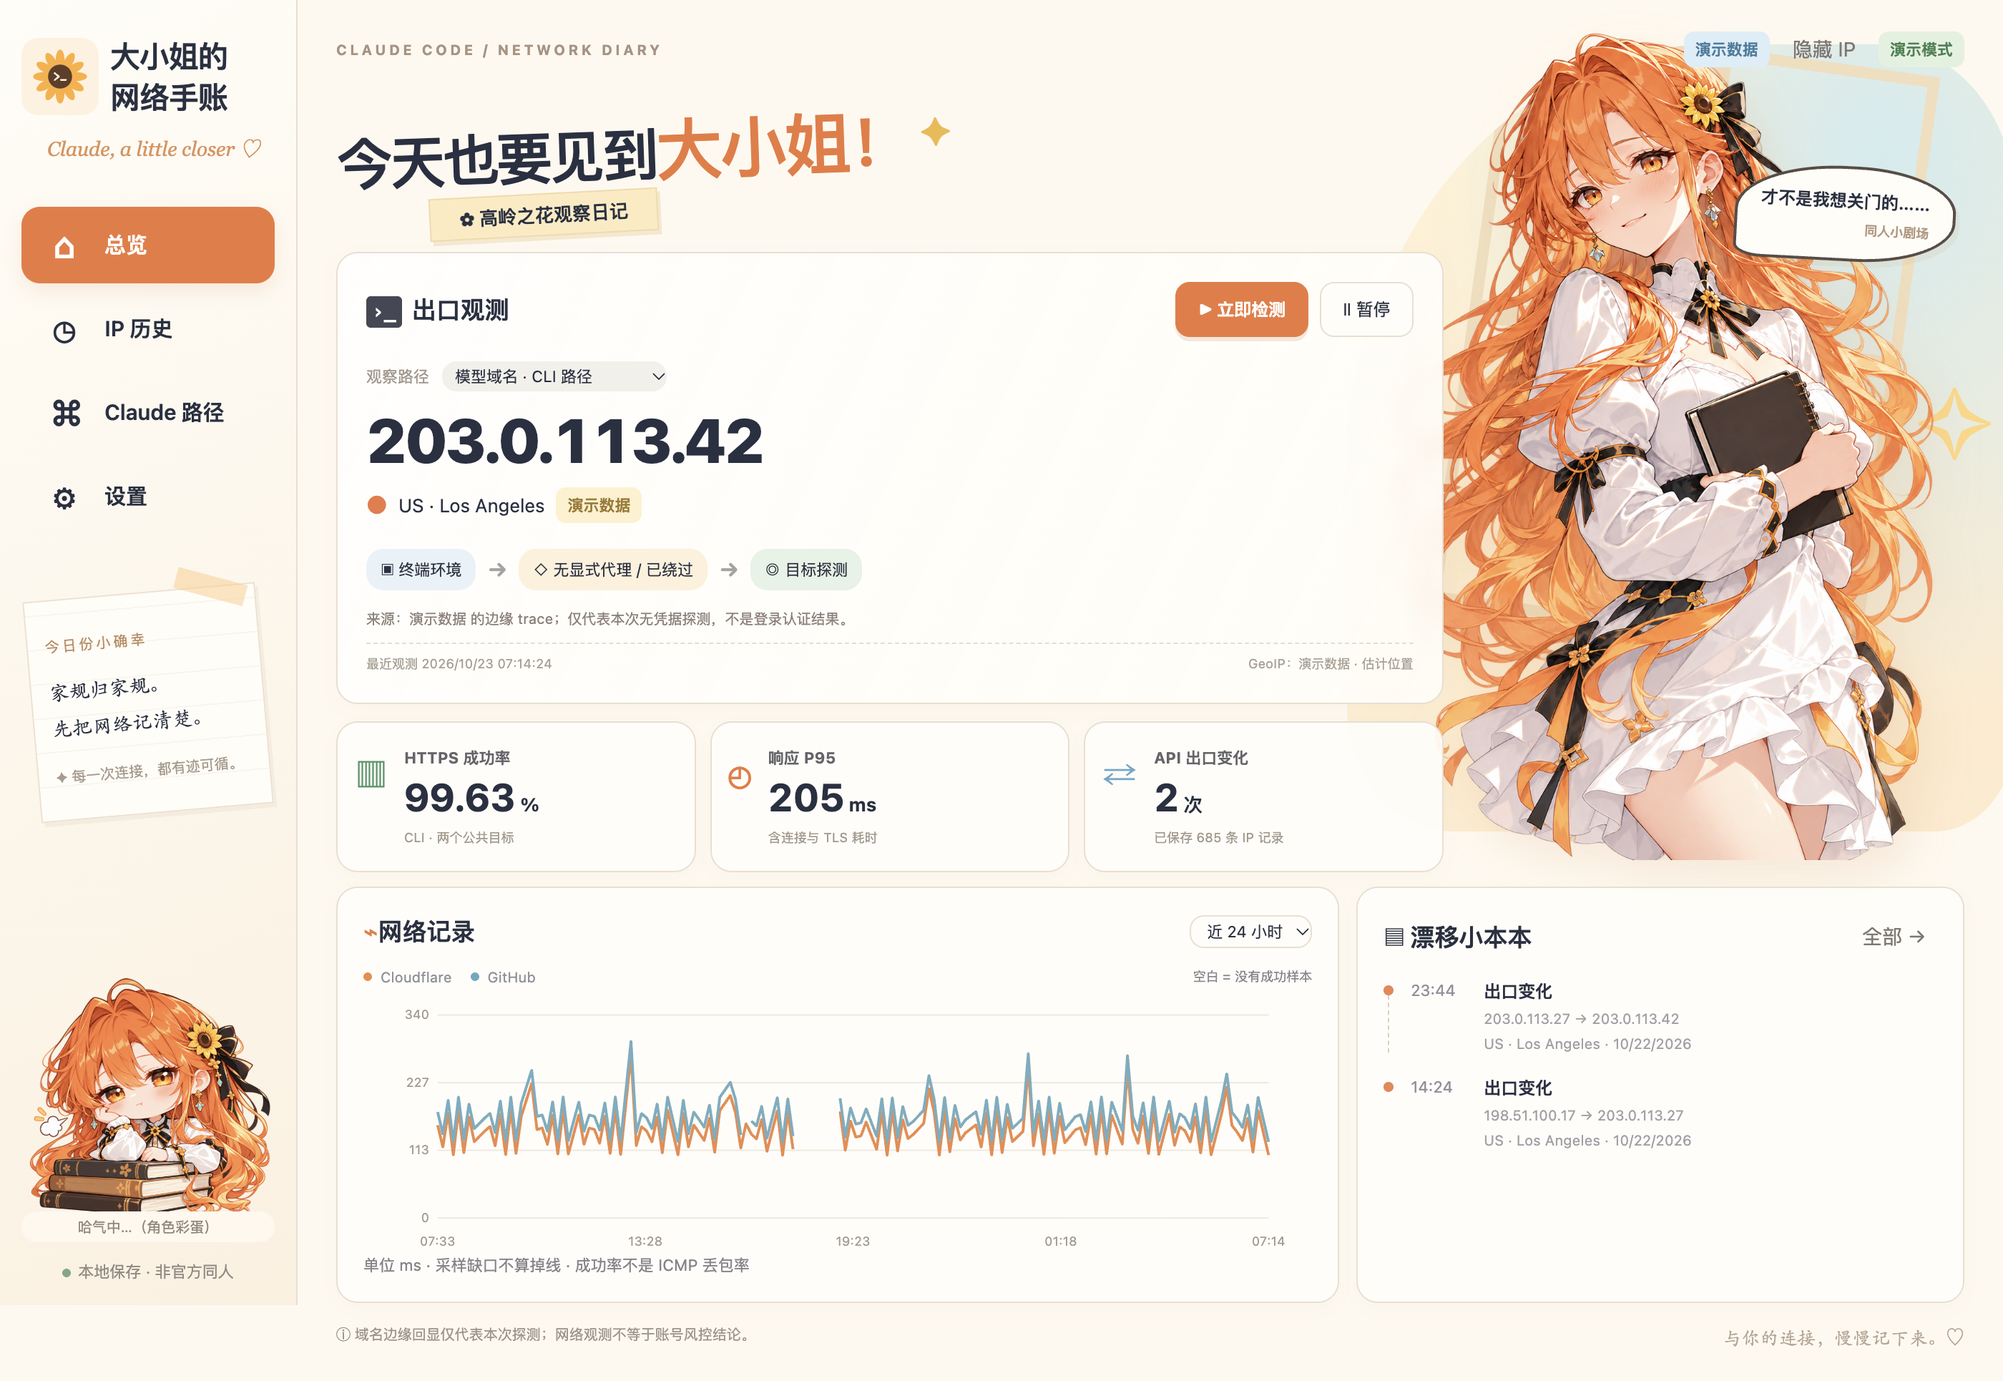
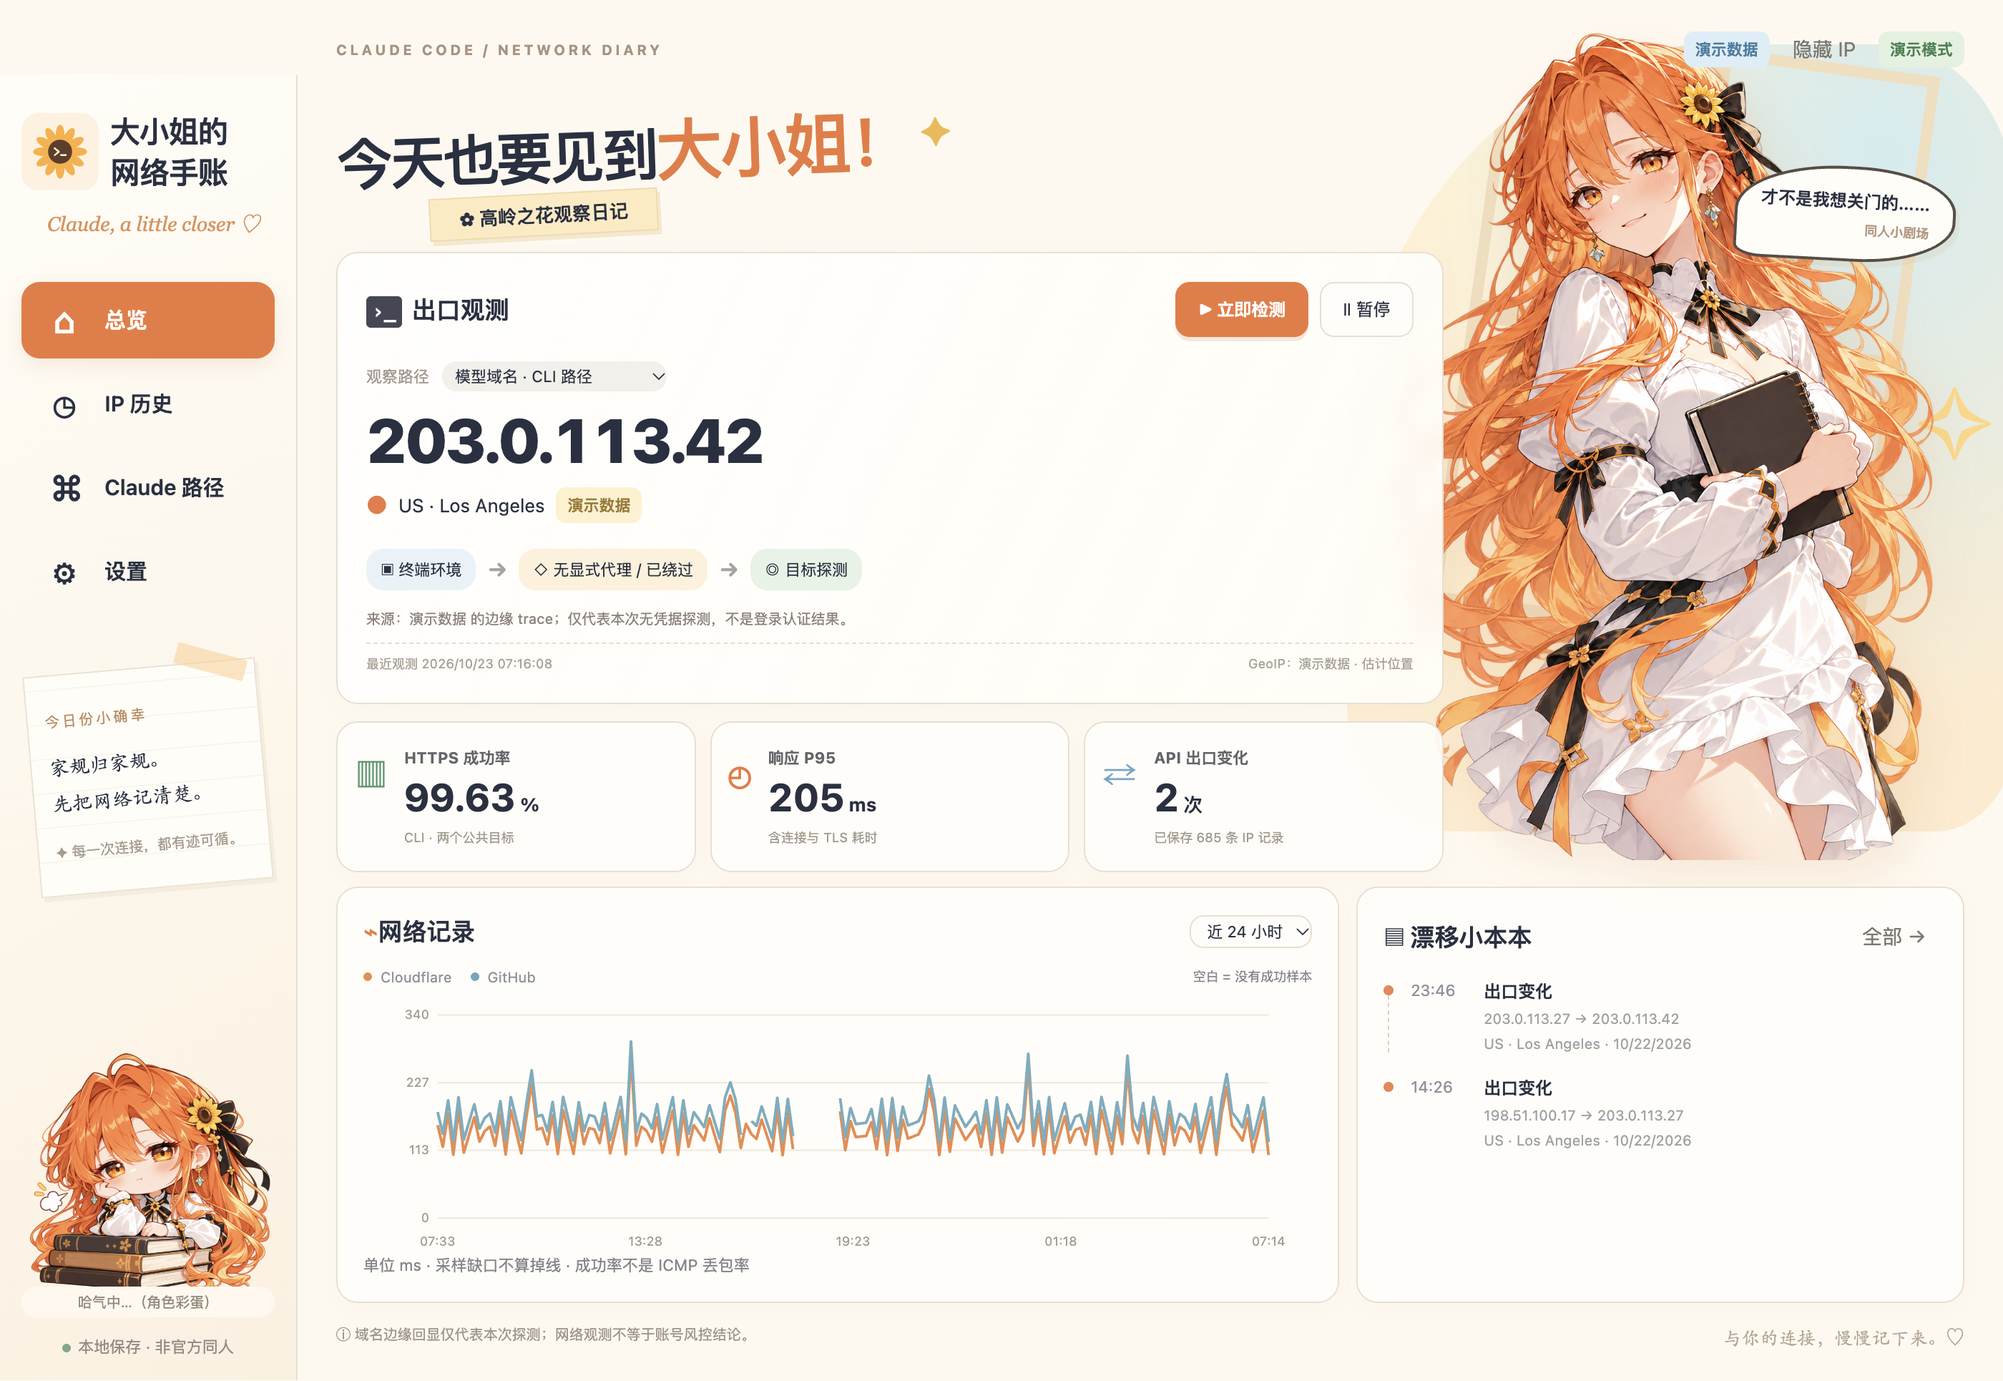
Prevent overlapping observer launches during startup recovery

diff --git a/docs/设计与验证.html b/docs/设计与验证.html
@@ -1,1 +1,1 @@
-<!doctype html><html lang="zh-CN"><meta charset="utf-8"><title>大小姐的网络手账 · 设计与验证</title><style>body{max-width:1000px;margin:60px auto;background:#f7f3ec;color:#332b26;font:16px/1.8 system-ui}article{background:#fffaf3;padding:28px;border:1px solid #dfd6ca;border-radius:18px;margin:24px 0}img{width:100%}code{background:#efe6db;padding:3px 6px}a{color:#a3523a}</style><h1>大小姐的网络手账</h1><p>原创二次元大小姐主题 · Claude Code 网络路径观察 · 独立非官方应用</p><article id="design"><h2>设计基线</h2><p>左侧导航与托盘常驻；主区域展示当前出口、稳定性、IP 漂移时间线；右侧原创成年大小姐插画。奶油纸色、陶土橘、深咖文字和低饱和青绿状态色。图表与数据有独立语义和可访问标签。</p><p>CLI 网络环境与系统/浏览器路径分开展示。第三方回显仅说明该探测请求出口；真实认证/模型服务可能按域名走另一线路。401/403 是 HTTP 响应，不等于登录成功或账户可用。</p></article><article id="execution-ledger"><h2>执行台账</h2><p>NW-02 · 负责人：主代理 · 进行中 · 先产出效果图，再跨平台实现、测试与公开发布。旧数据保留。截图、构建与验证在完成时追加。</p></article><article><h2>视觉方案修订</h2><p>  NW-02 视觉修订（北京时间 2026-10-23T20:43:33+08:00）：用户认为初版过于正经且文案用梗不准，要求再生成明显二次元风格并先搜索社区。已检索LINUX DO原帖、B站作者/二创条目和贴吧话题；把橙发、温柔聪明、有距离感、严格原生家庭及哈气作为同人语境，不将社区猜测当作真实封号政策。V2采用橙发白裙的原创成年角色、赛璐璐动画立绘、漫画气泡、少量表情贴纸，真实测量与同人文案明确分开。保留V1为历史方案。来源：https://linux.do/t/topic/3010391 、https://linux.do/t/topic/2990653 、https://www.bilibili.com/video/BV1wtaH6jEk8/ 。 </p><p>初版：<a href="assets/concept.png">方案一</a>；V2进一步突出动画线稿/赛璐璐、橙发白裙与漫画表情。不复用第三方作者插画。</p></article><article id="implementation"><h2>NW-02 实现与验证 · 2026-10-23T21:16:27+08:00</h2><p>负责人：主代理。状态：进行中；macOS 本机实现和源应用验证阶段完成，公开发布与跨平台 CI 待验证。</p><p>技术栈：Electron 45 / Node 24 / 内置 SQLite；独立 utilityProcess，托盘单实例、关闭隐藏、可选启动项；无 Python 依赖。5 类观测路径、IP/GeoIP 历史、两目标 HTTPS 曲线、CSV、私有代理加密与终端环境白名单采集。</p><p>图稿顺序：<a href="assets/concept.png">V1 原方案</a> → <a href="assets/concept-v2.png">V2 二次元修订</a> → 下方真实应用演示截图。截图均仅含 RFC 5737 演示 IP，不是实测网络证明。</p><img src="assets/application-demo.png" alt="本轮 Electron 实际窗口，全部为演示数据"><p>验证：<code>npm test</code> 核心逻辑；<code>npm run test:ui</code> Electron 导航、筛选、IP 隐藏、设置、暂停/继续、关闭到托盘与恢复已通过；<code>npm run test:live</code> 只保留脱敏结论：IPv4/认证和 API 域名 trace 成功、IPv6 DNS 失败按失败记录、GeoJS 回退成功、SQLite integrity_check=ok。没有登录或模型调用。</p><p>测试中发现并修复：ESM 顶层等待 app.whenReady 导致启动死锁；改为异步启动函数。代理失败不直连回退、IPv6 规范化、缺少目标的批次不算整条线路掉线。UI 操作在本项目 Electron 窗口内自动化执行，不依赖外部 app 的 AX。</p><p>下一步：公开仓库，macOS Apple Silicon / Intel、Windows x64 CI 构建和打包后 UI 测试，通过后发布。真实重启启动项、整夜运行和物理设备休眠仍不在当前验收范围。</p></article><article><h2>NW-02 首轮 CI 修复</h2><p>负责人主代理，进行中。macOS arm64 源应用/打包后 UI 与构建通过。Windows 首轮失败在测试清理钩子：先删目录再关闭 SQLite，Windows 文件锁返回 EPERM；已调整为先关闭数据库后删除测试临时目录。Mac 安装包发现继承的链接器签名未封装资源，改用明确的 ad-hoc 签名并添加完整性验证；这不等于 Apple 公证。CI 截图改为只上传测试实际生成的文件，避免误用仓库旧截图。</p></article><article><h2>NW-02 三平台回归与小屏修订</h2><p>2026-10-23，主代理，进行中。CI 39960308712 三平台逻辑/源应用/打包后窗口测试与构建全部通过。目视核查 Windows CI 截图时发现短窗口侧栏便签挤压底部头像，已在矮窗口隐藏装饰便签，保留导航、头像与本地存储提示；增加侧栏底部不越界的界面断言，再次构建验证此变更。</p></article><article><h2>NW-02 路径展示复核</h2><p>负责人主代理，进行中。最终复核修正概览流程图：NO_PROXY 命中时明确显示绕过显式代理；系统路由与系统浏览器近似不再沿用“终端环境”标签。新增对应测试，实际探测路由逻辑未改变。最终发布采用此修订并重新构建安装包。</p></article><article><h2>NW-02 Windows 演示初始化超时</h2><p>最终路径标签修订的 CI 39962272929：两种 Mac 架构通过，Windows 21项逻辑测试通过，但源应用等待演示首屏数据超时。此前同平台已有两轮成功。根据 Windows 单条 SQLite 写入耗时，演示种子的逐条事务是可能瓶颈；改为一次事务批量写入，并增加失败截图及只含演示状态的诊断，再复验。真实监测与既有数据未删除。</p></article><article><h2>NW-02 启动握手修正</h2><p>复核 Windows 随机启动超时同时发现一个时序缺口：主进程在 spawn 事件立即发送 init，而 ESM 后台模块可能尚未完成导入与监听注册。改为工作进程注册监听后发送 listening，主进程收到后再初始化；初始化异常明确上报并进入有限重启。批量演示事务与握手一并进入最终构建复验。</p></article></html>
+<!doctype html><html lang="zh-CN"><meta charset="utf-8"><title>大小姐的网络手账 · 设计与验证</title><style>body{max-width:1000px;margin:60px auto;background:#f7f3ec;color:#332b26;font:16px/1.8 system-ui}article{background:#fffaf3;padding:28px;border:1px solid #dfd6ca;border-radius:18px;margin:24px 0}img{width:100%}code{background:#efe6db;padding:3px 6px}a{color:#a3523a}</style><h1>大小姐的网络手账</h1><p>原创二次元大小姐主题 · Claude Code 网络路径观察 · 独立非官方应用</p><article id="design"><h2>设计基线</h2><p>左侧导航与托盘常驻；主区域展示当前出口、稳定性、IP 漂移时间线；右侧原创成年大小姐插画。奶油纸色、陶土橘、深咖文字和低饱和青绿状态色。图表与数据有独立语义和可访问标签。</p><p>CLI 网络环境与系统/浏览器路径分开展示。第三方回显仅说明该探测请求出口；真实认证/模型服务可能按域名走另一线路。401/403 是 HTTP 响应，不等于登录成功或账户可用。</p></article><article id="execution-ledger"><h2>执行台账</h2><p>NW-02 · 负责人：主代理 · 进行中 · 先产出效果图，再跨平台实现、测试与公开发布。旧数据保留。截图、构建与验证在完成时追加。</p></article><article><h2>视觉方案修订</h2><p>  NW-02 视觉修订（北京时间 2026-10-23T20:43:33+08:00）：用户认为初版过于正经且文案用梗不准，要求再生成明显二次元风格并先搜索社区。已检索LINUX DO原帖、B站作者/二创条目和贴吧话题；把橙发、温柔聪明、有距离感、严格原生家庭及哈气作为同人语境，不将社区猜测当作真实封号政策。V2采用橙发白裙的原创成年角色、赛璐璐动画立绘、漫画气泡、少量表情贴纸，真实测量与同人文案明确分开。保留V1为历史方案。来源：https://linux.do/t/topic/3010391 、https://linux.do/t/topic/2990653 、https://www.bilibili.com/video/BV1wtaH6jEk8/ 。 </p><p>初版：<a href="assets/concept.png">方案一</a>；V2进一步突出动画线稿/赛璐璐、橙发白裙与漫画表情。不复用第三方作者插画。</p></article><article id="implementation"><h2>NW-02 实现与验证 · 2026-10-23T21:16:27+08:00</h2><p>负责人：主代理。状态：进行中；macOS 本机实现和源应用验证阶段完成，公开发布与跨平台 CI 待验证。</p><p>技术栈：Electron 45 / Node 24 / 内置 SQLite；独立 utilityProcess，托盘单实例、关闭隐藏、可选启动项；无 Python 依赖。5 类观测路径、IP/GeoIP 历史、两目标 HTTPS 曲线、CSV、私有代理加密与终端环境白名单采集。</p><p>图稿顺序：<a href="assets/concept.png">V1 原方案</a> → <a href="assets/concept-v2.png">V2 二次元修订</a> → 下方真实应用演示截图。截图均仅含 RFC 5737 演示 IP，不是实测网络证明。</p><img src="assets/application-demo.png" alt="本轮 Electron 实际窗口，全部为演示数据"><p>验证：<code>npm test</code> 核心逻辑；<code>npm run test:ui</code> Electron 导航、筛选、IP 隐藏、设置、暂停/继续、关闭到托盘与恢复已通过；<code>npm run test:live</code> 只保留脱敏结论：IPv4/认证和 API 域名 trace 成功、IPv6 DNS 失败按失败记录、GeoJS 回退成功、SQLite integrity_check=ok。没有登录或模型调用。</p><p>测试中发现并修复：ESM 顶层等待 app.whenReady 导致启动死锁；改为异步启动函数。代理失败不直连回退、IPv6 规范化、缺少目标的批次不算整条线路掉线。UI 操作在本项目 Electron 窗口内自动化执行，不依赖外部 app 的 AX。</p><p>下一步：公开仓库，macOS Apple Silicon / Intel、Windows x64 CI 构建和打包后 UI 测试，通过后发布。真实重启启动项、整夜运行和物理设备休眠仍不在当前验收范围。</p></article><article><h2>NW-02 首轮 CI 修复</h2><p>负责人主代理，进行中。macOS arm64 源应用/打包后 UI 与构建通过。Windows 首轮失败在测试清理钩子：先删目录再关闭 SQLite，Windows 文件锁返回 EPERM；已调整为先关闭数据库后删除测试临时目录。Mac 安装包发现继承的链接器签名未封装资源，改用明确的 ad-hoc 签名并添加完整性验证；这不等于 Apple 公证。CI 截图改为只上传测试实际生成的文件，避免误用仓库旧截图。</p></article><article><h2>NW-02 三平台回归与小屏修订</h2><p>2026-10-23，主代理，进行中。CI 39960308712 三平台逻辑/源应用/打包后窗口测试与构建全部通过。目视核查 Windows CI 截图时发现短窗口侧栏便签挤压底部头像，已在矮窗口隐藏装饰便签，保留导航、头像与本地存储提示；增加侧栏底部不越界的界面断言，再次构建验证此变更。</p></article><article><h2>NW-02 路径展示复核</h2><p>负责人主代理，进行中。最终复核修正概览流程图：NO_PROXY 命中时明确显示绕过显式代理；系统路由与系统浏览器近似不再沿用“终端环境”标签。新增对应测试，实际探测路由逻辑未改变。最终发布采用此修订并重新构建安装包。</p></article><article><h2>NW-02 Windows 演示初始化超时</h2><p>最终路径标签修订的 CI 39962272929：两种 Mac 架构通过，Windows 21项逻辑测试通过，但源应用等待演示首屏数据超时。此前同平台已有两轮成功。根据 Windows 单条 SQLite 写入耗时，演示种子的逐条事务是可能瓶颈；改为一次事务批量写入，并增加失败截图及只含演示状态的诊断，再复验。真实监测与既有数据未删除。</p></article><article><h2>NW-02 启动握手修正</h2><p>复核 Windows 随机启动超时同时发现一个时序缺口：主进程在 spawn 事件立即发送 init，而 ESM 后台模块可能尚未完成导入与监听注册。改为工作进程注册监听后发送 listening，主进程收到后再初始化；初始化异常明确上报并进入有限重启。批量演示事务与握手一并进入最终构建复验。</p></article><article><h2>NW-02 采样进程单实例</h2><p>启动和自动重启过程增加互斥标记及定时器清理；用户在后台尚未就绪时重复点击立即检测不会创建多个采样进程，旧工作进程消息也不会覆盖新状态。最终构建统一包含该修复。</p></article></html>

diff --git a/src/main.js b/src/main.js
@@ -11,7 +11,7 @@ app.setPath('userData',demo?path.join(os.tmpdir(),`ClaudeOjouDemo-${process.pid}
 const directory=app.getPath('userData'),configPath=path.join(directory,'settings.json');
 mkdirSync(directory,{recursive:true,mode:0o700});
 const defaults={interval:30,ipv6:true,paused:false,mode:'auto',notifications:false,workspace:'',manualProxy:'',capturedEnv:null,capturedAt:'',source:'应用启动环境'};
-let settings={...defaults},win,tray,worker,quitting=false,lastSnapshot=null,profileInfo={},workerReady=false,restarts=0,lastError='',startupWarning='',seq=0;
+let settings={...defaults},win,tray,worker,quitting=false,lastSnapshot=null,profileInfo={},workerReady=false,restarts=0,lastError='',startupWarning='',seq=0,startingWorker=false,restartTimer;
 const pending=new Map();
 const legacy=process.platform==='darwin'?path.join(os.homedir(),'Library','Application Support','NetworkWatch','ip-history.sqlite3'):'';
 if(!app.requestSingleInstanceLock({capture:captureFlag?pickNetworkEnv(process.env):null,capturedAt:new Date().toISOString()})){app.quit();}else{
@@ -69,24 +69,25 @@ async function browserProbe(){
   finally{clearTimeout(timer);}
 }
 async function startWorker(){
-  if(quitting)return;workerReady=false;
+  if(quitting||startingWorker||workerReady)return;startingWorker=true;clearTimeout(restartTimer);workerReady=false;
   const config=await resolveProfile();
   const env=Object.fromEntries(['PATH','SystemRoot','WINDIR','TEMP','TMP','HOME','USERPROFILE','LANG'].filter(k=>process.env[k]).map(k=>[k,process.env[k]]));
   const child=utilityProcess.fork(path.join(root,'src','worker.js'),[],{serviceName:'Claude Ojou Network Observer',env,stdio:'pipe'});worker=child;
   child.stderr.on('data',buffer=>{if(demo)console.error('Demo worker:',buffer.toString());});child.stdout.on('data',()=>{});
   child.on('message',async m=>{
+    if(worker!==child)return;
     if(m.type==='listening'){child.postMessage({type:'init',directory,legacy:demo?'':legacy,config});}
     else if(m.type==='fatal'){lastError='后台数据库初始化失败，正在尝试恢复。';publish();}
-    else if(m.type==='ready'){workerReady=true;lastError=startupWarning;publish();}
+    else if(m.type==='ready'){workerReady=true;startingWorker=false;lastError=startupWarning;publish();}
     else if(m.type==='snapshot'){lastSnapshot=m.data;publish();}
     else if(m.type==='browser-probe'){const data=await browserProbe();if(worker===child)child.postMessage({type:'browser-result',id:m.id,data});}
     else if(m.type==='reply'){const p=pending.get(m.id);if(p){clearTimeout(p.timer);pending.delete(m.id);m.error?p.reject(new Error(m.error)):p.resolve(m.data);}}
     else if(m.type==='sample'&&m.changes.length&&settings.notifications&&Notification.isSupported()){new Notification({title:'网络手账 · 出口发生变化',body:`${m.changes.length} 条观测路径出现 IP 变化。打开手账查看详细记录。`}).show();}
   });
   child.on('exit',()=>{
-    if(worker!==child)return;workerReady=false;
+    if(worker!==child)return;workerReady=false;startingWorker=false;
     for(const p of pending.values()){clearTimeout(p.timer);p.reject(new Error('后台进程已重启'));}pending.clear();
-    if(!quitting){lastError='采样进程已停止，正在尝试恢复。';publish();if(restarts++<3)setTimeout(startWorker,Math.min(1000*2**restarts,15000));else{lastError='后台重试已停止；请点击立即检测重启。';publish();}}
+    if(!quitting){lastError='采样进程已停止，正在尝试恢复。';publish();if(restarts++<3)restartTimer=setTimeout(startWorker,Math.min(1000*2**restarts,15000));else{lastError='后台重试已停止；请点击立即检测重启。';publish();}}
   });
 }
 function show(){if(!win)return;if(process.platform==='darwin')app.dock?.show();win.show();win.focus();}
